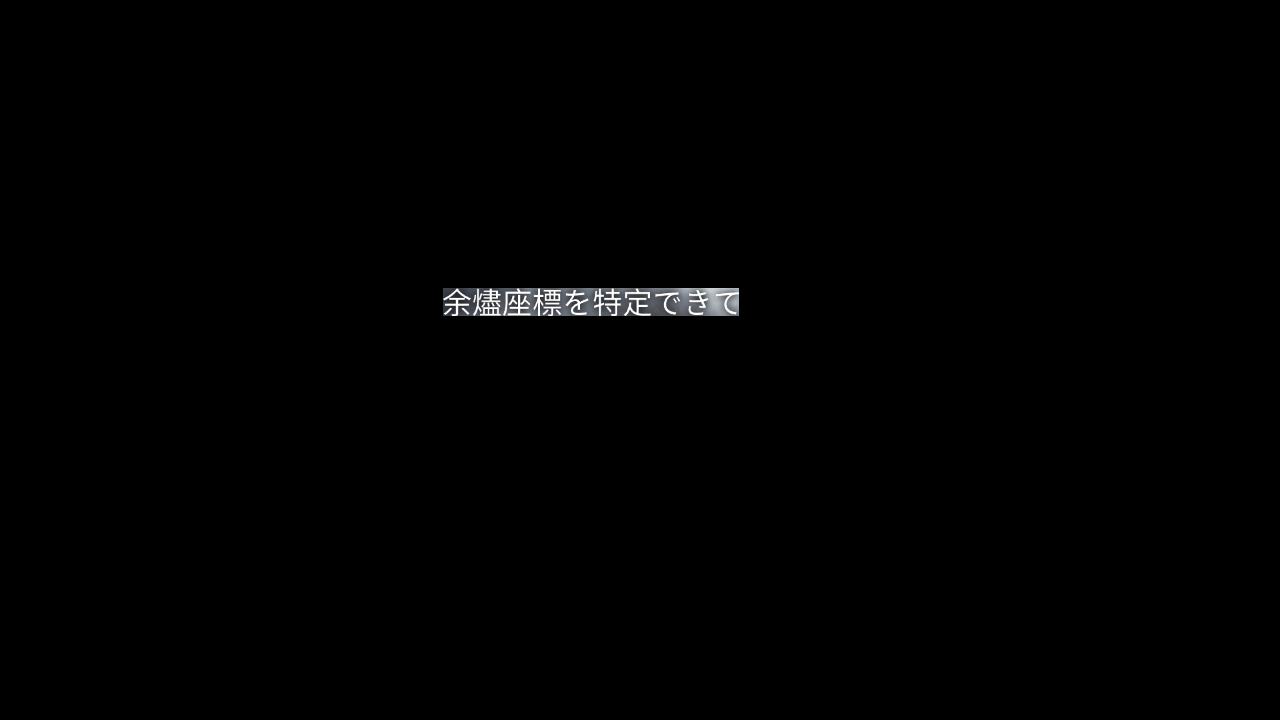
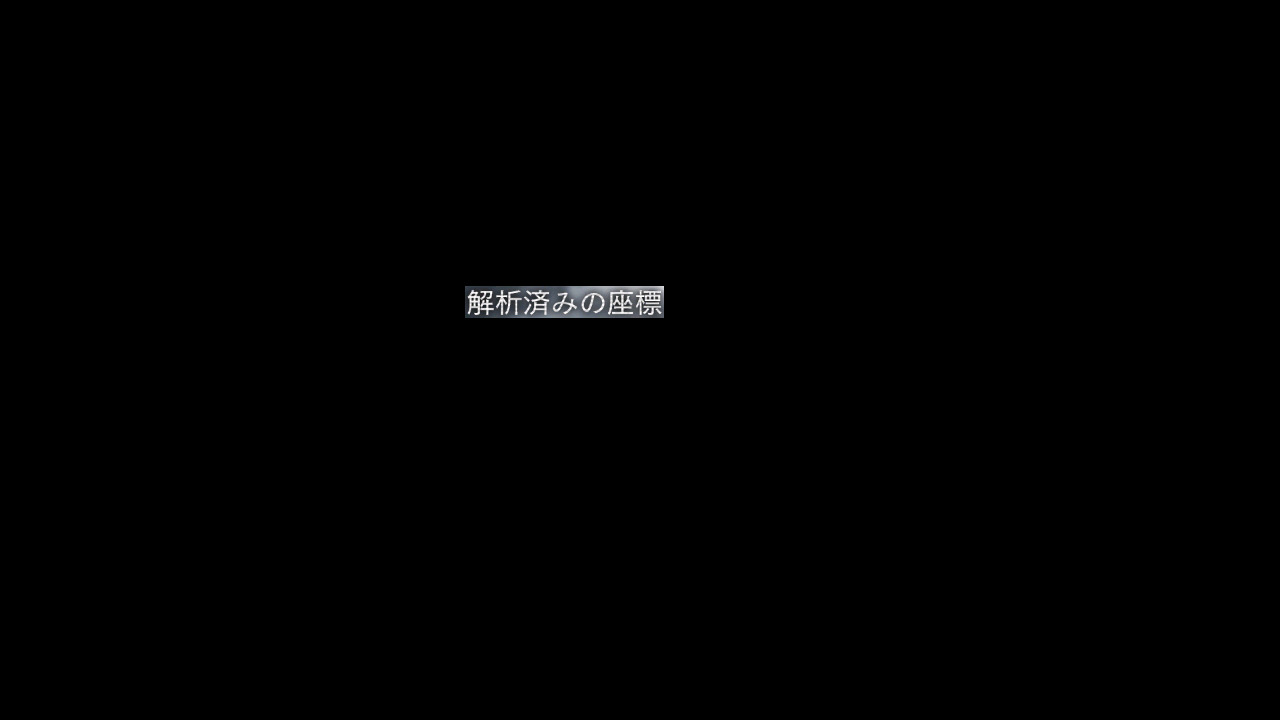
Fix: [JP] BEACON_EMPTY

Changed region(s): [[0.3438, 0.3972, 0.5938, 0.4583]]

diff --git a/module/os_ash/assets.py b/module/os_ash/assets.py
@@ -13,7 +13,7 @@ ASH_QUIT = Button(area={'cn': (29, 25, 59, 49), 'en': (29, 25, 59, 49), 'jp': (2
 ASH_SHOWDOWN = Button(area={'cn': (120, 14, 262, 38), 'en': (120, 16, 319, 35), 'jp': (122, 15, 246, 39), 'tw': (120, 14, 262, 38)}, color={'cn': (153, 131, 131), 'en': (130, 106, 106), 'jp': (164, 144, 145), 'tw': (153, 131, 131)}, button={'cn': (278, 167, 559, 551), 'en': (278, 167, 559, 551), 'jp': (278, 167, 559, 551), 'tw': (278, 167, 559, 551)}, file={'cn': './assets/cn/os_ash/ASH_SHOWDOWN.png', 'en': './assets/en/os_ash/ASH_SHOWDOWN.png', 'jp': './assets/jp/os_ash/ASH_SHOWDOWN.png', 'tw': './assets/cn/os_ash/ASH_SHOWDOWN.png'})
 ASH_START = Button(area={'cn': (1061, 635, 1259, 695), 'en': (1063, 637, 1255, 693), 'jp': (1058, 634, 1260, 697), 'tw': (1043, 637, 1242, 698)}, color={'cn': (236, 187, 115), 'en': (223, 184, 124), 'jp': (222, 185, 126), 'tw': (223, 186, 131)}, button={'cn': (1061, 635, 1259, 695), 'en': (1063, 637, 1255, 693), 'jp': (1058, 634, 1260, 697), 'tw': (1043, 637, 1242, 698)}, file={'cn': './assets/cn/os_ash/ASH_START.png', 'en': './assets/en/os_ash/ASH_START.png', 'jp': './assets/jp/os_ash/ASH_START.png', 'tw': './assets/tw/os_ash/ASH_START.png'})
 BATTLE_STATUS = Button(area={'cn': (1051, 644, 1123, 675), 'en': (1022, 657, 1150, 671), 'jp': (1087, 642, 1127, 679), 'tw': (1050, 644, 1123, 675)}, color={'cn': (247, 199, 137), 'en': (243, 207, 160), 'jp': (229, 171, 91), 'tw': (243, 193, 128)}, button={'cn': (1051, 644, 1123, 675), 'en': (1022, 657, 1150, 671), 'jp': (1087, 642, 1127, 679), 'tw': (1050, 644, 1123, 675)}, file={'cn': './assets/cn/os_ash/BATTLE_STATUS.png', 'en': './assets/en/os_ash/BATTLE_STATUS.png', 'jp': './assets/jp/os_ash/BATTLE_STATUS.png', 'tw': './assets/tw/os_ash/BATTLE_STATUS.png'})
-BEACON_EMPTY = Button(area={'cn': (535, 288, 647, 316), 'en': (522, 290, 775, 313), 'jp': (443, 288, 739, 316), 'tw': (534, 287, 648, 316)}, color={'cn': (126, 129, 134), 'en': (148, 150, 154), 'jp': (132, 135, 140), 'tw': (128, 130, 135)}, button={'cn': (535, 288, 647, 316), 'en': (522, 290, 775, 313), 'jp': (443, 288, 739, 316), 'tw': (534, 287, 648, 316)}, file={'cn': './assets/cn/os_ash/BEACON_EMPTY.png', 'en': './assets/en/os_ash/BEACON_EMPTY.png', 'jp': './assets/jp/os_ash/BEACON_EMPTY.png', 'tw': './assets/tw/os_ash/BEACON_EMPTY.png'})
+BEACON_EMPTY = Button(area={'cn': (535, 288, 647, 316), 'en': (522, 290, 775, 313), 'jp': (465, 286, 664, 318), 'tw': (534, 287, 648, 316)}, color={'cn': (126, 129, 134), 'en': (148, 150, 154), 'jp': (119, 122, 128), 'tw': (128, 130, 135)}, button={'cn': (535, 288, 647, 316), 'en': (522, 290, 775, 313), 'jp': (465, 286, 664, 318), 'tw': (534, 287, 648, 316)}, file={'cn': './assets/cn/os_ash/BEACON_EMPTY.png', 'en': './assets/en/os_ash/BEACON_EMPTY.png', 'jp': './assets/jp/os_ash/BEACON_EMPTY.png', 'tw': './assets/tw/os_ash/BEACON_EMPTY.png'})
 BEACON_ENTER = Button(area={'cn': (553, 308, 669, 332), 'en': (590, 359, 705, 372), 'jp': (589, 348, 706, 371), 'tw': (650, 348, 706, 372)}, color={'cn': (90, 92, 92), 'en': (104, 105, 104), 'jp': (101, 102, 101), 'tw': (95, 97, 99)}, button={'cn': (509, 78, 713, 470), 'en': (509, 78, 713, 470), 'jp': (548, 115, 747, 502), 'tw': (509, 78, 714, 470)}, file={'cn': './assets/cn/os_ash/BEACON_ENTER.png', 'en': './assets/en/os_ash/BEACON_ENTER.png', 'jp': './assets/jp/os_ash/BEACON_ENTER.png', 'tw': './assets/tw/os_ash/BEACON_ENTER.png'})
 BEACON_HP_PERCENTAGE = Button(area={'cn': (278, 609, 1239, 623), 'en': (278, 609, 1239, 623), 'jp': (278, 609, 1239, 623), 'tw': (278, 609, 1239, 623)}, color={'cn': (224, 31, 22), 'en': (224, 31, 22), 'jp': (224, 31, 22), 'tw': (224, 31, 22)}, button={'cn': (278, 609, 1239, 623), 'en': (278, 609, 1239, 623), 'jp': (278, 609, 1239, 623), 'tw': (278, 609, 1239, 623)}, file={'cn': './assets/cn/os_ash/BEACON_HP_PERCENTAGE.png', 'en': './assets/en/os_ash/BEACON_HP_PERCENTAGE.png', 'jp': './assets/jp/os_ash/BEACON_HP_PERCENTAGE.png', 'tw': './assets/tw/os_ash/BEACON_HP_PERCENTAGE.png'})
 BEACON_LIST = Button(area={'cn': (26, 649, 218, 703), 'en': (25, 648, 218, 703), 'jp': (22, 645, 221, 706), 'tw': (23, 646, 221, 705)}, color={'cn': (135, 105, 122), 'en': (141, 104, 121), 'jp': (141, 107, 129), 'tw': (135, 101, 119)}, button={'cn': (26, 649, 218, 703), 'en': (25, 648, 218, 703), 'jp': (22, 645, 221, 706), 'tw': (23, 646, 221, 705)}, file={'cn': './assets/cn/os_ash/BEACON_LIST.png', 'en': './assets/en/os_ash/BEACON_LIST.png', 'jp': './assets/jp/os_ash/BEACON_LIST.png', 'tw': './assets/tw/os_ash/BEACON_LIST.png'})
